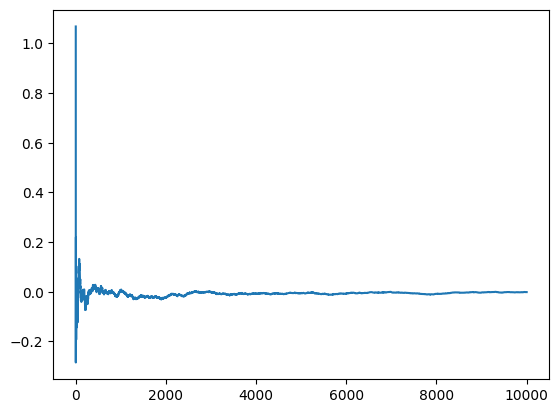
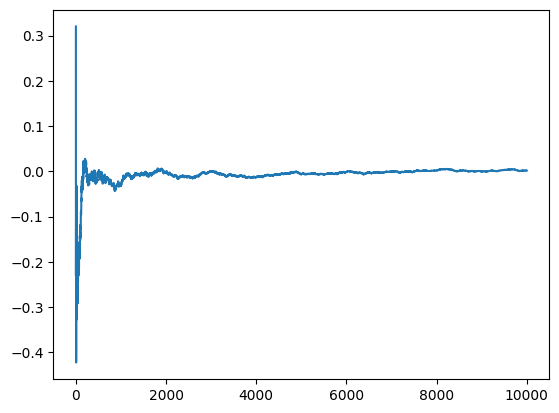
Built site for gh-pages

diff --git a/314/quiz04.html b/314/quiz04.html
@@ -123,28 +123,33 @@ pre > code.sourceCode > span > a:first-child::before { text-decoration: underlin
 
 
 
-<div id="1cb32e88-ebf6-4205-98ef-f8c705f09134" class="cell" data-execution_count="1">
+<div id="39a1053a-6209-4a64-bf55-a1e00844c027" class="cell" data-execution_count="2">
 <div class="code-copy-outer-scaffold"><div class="sourceCode cell-code" id="cb1"><pre class="sourceCode python code-with-copy"><code class="sourceCode python"><span id="cb1-1"><a href="#cb1-1" aria-hidden="true" tabindex="-1"></a><span class="im">import</span> numpy <span class="im">as</span> np</span></code></pre></div><button title="Copy to Clipboard" class="code-copy-button"><i class="bi"></i></button></div>
 </div>
-<div id="cecce080-cc10-4fcf-8f5e-f62522a33b9f" class="cell" data-execution_count="2">
+<p>Not a bad idea to solve this one in pieces/two functions.</p>
+<div id="a9354143-3b5d-44e8-a0bd-68e30e5ee614" class="cell" data-execution_count="4">
 <div class="code-copy-outer-scaffold"><div class="sourceCode cell-code" id="cb2"><pre class="sourceCode python code-with-copy"><code class="sourceCode python"><span id="cb2-1"><a href="#cb2-1" aria-hidden="true" tabindex="-1"></a><span class="kw">def</span> mean(x):</span>
-<span id="cb2-2"><a href="#cb2-2" aria-hidden="true" tabindex="-1"></a>    N <span class="op">=</span> np.size(x) <span class="co"># x.size</span></span>
-<span id="cb2-3"><a href="#cb2-3" aria-hidden="true" tabindex="-1"></a>    s <span class="op">=</span> <span class="fl">0.0</span></span>
-<span id="cb2-4"><a href="#cb2-4" aria-hidden="true" tabindex="-1"></a>    <span class="cf">for</span> i <span class="kw">in</span> <span class="bu">range</span>(N):</span>
-<span id="cb2-5"><a href="#cb2-5" aria-hidden="true" tabindex="-1"></a>        s <span class="op">+=</span> x[i]</span>
+<span id="cb2-2"><a href="#cb2-2" aria-hidden="true" tabindex="-1"></a>    s <span class="op">=</span> <span class="fl">0.0</span></span>
+<span id="cb2-3"><a href="#cb2-3" aria-hidden="true" tabindex="-1"></a>    N <span class="op">=</span> np.size(x)</span>
+<span id="cb2-4"><a href="#cb2-4" aria-hidden="true" tabindex="-1"></a>    <span class="cf">for</span> n <span class="kw">in</span> <span class="bu">range</span>(N):</span>
+<span id="cb2-5"><a href="#cb2-5" aria-hidden="true" tabindex="-1"></a>        s <span class="op">+=</span> x[n]</span>
 <span id="cb2-6"><a href="#cb2-6" aria-hidden="true" tabindex="-1"></a>    <span class="cf">return</span> s <span class="op">/</span> N</span></code></pre></div><button title="Copy to Clipboard" class="code-copy-button"><i class="bi"></i></button></div>
 </div>
-<div id="e440d70e-3eb2-4f3c-ac5b-3603397179b5" class="cell" data-execution_count="5">
-<div class="code-copy-outer-scaffold"><div class="sourceCode cell-code" id="cb3"><pre class="sourceCode python code-with-copy"><code class="sourceCode python"><span id="cb3-1"><a href="#cb3-1" aria-hidden="true" tabindex="-1"></a>rng <span class="op">=</span> np.random.default_rng() <span class="co"># instantiating an RNG class</span></span>
-<span id="cb3-2"><a href="#cb3-2" aria-hidden="true" tabindex="-1"></a>x <span class="op">=</span> rng.normal(size <span class="op">=</span> <span class="dv">10</span>) <span class="co"># use rng instance to generate random numbers =&gt; ndarray</span></span>
-<span id="cb3-3"><a href="#cb3-3" aria-hidden="true" tabindex="-1"></a>x</span></code></pre></div><button title="Copy to Clipboard" class="code-copy-button"><i class="bi"></i></button></div>
-<div class="cell-output cell-output-display" data-execution_count="5">
-<pre><code>array([ 0.53768287,  0.48044289,  0.41968892,  0.53617612,  0.12008546,
-        2.36768986,  0.17752883,  0.68915822,  0.07121943, -0.29874026])</code></pre>
+<div id="5ab1a5e2-461b-4d6d-81b7-17703ab66d6b" class="cell" data-execution_count="5">
+<div class="code-copy-outer-scaffold"><div class="sourceCode cell-code" id="cb3"><pre class="sourceCode python code-with-copy"><code class="sourceCode python"><span id="cb3-1"><a href="#cb3-1" aria-hidden="true" tabindex="-1"></a><span class="kw">def</span> var(x):</span>
+<span id="cb3-2"><a href="#cb3-2" aria-hidden="true" tabindex="-1"></a>    s <span class="op">=</span> <span class="fl">0.0</span></span>
+<span id="cb3-3"><a href="#cb3-3" aria-hidden="true" tabindex="-1"></a>    N <span class="op">=</span> np.size(x)</span>
+<span id="cb3-4"><a href="#cb3-4" aria-hidden="true" tabindex="-1"></a>    m <span class="op">=</span> mean(x)</span>
+<span id="cb3-5"><a href="#cb3-5" aria-hidden="true" tabindex="-1"></a>    invN <span class="op">=</span> <span class="dv">1</span> <span class="op">/</span> N <span class="co"># minimizing division is a good idea, even if ineffective here</span></span>
+<span id="cb3-6"><a href="#cb3-6" aria-hidden="true" tabindex="-1"></a>    <span class="cf">for</span> n <span class="kw">in</span> <span class="bu">range</span>(N):</span>
+<span id="cb3-7"><a href="#cb3-7" aria-hidden="true" tabindex="-1"></a>        d <span class="op">=</span> x[n] <span class="op">-</span> m</span>
+<span id="cb3-8"><a href="#cb3-8" aria-hidden="true" tabindex="-1"></a>        s <span class="op">+=</span> d <span class="op">*</span> d <span class="co"># multiplication is faster than powers</span></span>
+<span id="cb3-9"><a href="#cb3-9" aria-hidden="true" tabindex="-1"></a>    <span class="cf">return</span> s <span class="op">*</span> invN</span></code></pre></div><button title="Copy to Clipboard" class="code-copy-button"><i class="bi"></i></button></div>
 </div>
-</div>
-<div id="e21aa05f-f9cd-405c-a726-1e60fd39d4d2" class="cell" data-execution_count="9">
-<div class="code-copy-outer-scaffold"><div class="sourceCode cell-code" id="cb5"><pre class="sourceCode python code-with-copy"><code class="sourceCode python"><span id="cb5-1"><a href="#cb5-1" aria-hidden="true" tabindex="-1"></a>np.isclose(mean(x), np.mean(x)) <span class="co"># don't == floats/doubles</span></span></code></pre></div><button title="Copy to Clipboard" class="code-copy-button"><i class="bi"></i></button></div>
+<div id="0216d24d-59a0-4a31-9fb6-ab25db939da9" class="cell" data-execution_count="9">
+<div class="code-copy-outer-scaffold"><div class="sourceCode cell-code" id="cb4"><pre class="sourceCode python code-with-copy"><code class="sourceCode python"><span id="cb4-1"><a href="#cb4-1" aria-hidden="true" tabindex="-1"></a>rng <span class="op">=</span> np.random.default_rng()</span>
+<span id="cb4-2"><a href="#cb4-2" aria-hidden="true" tabindex="-1"></a>x <span class="op">=</span> rng.normal(size <span class="op">=</span> <span class="dv">100</span>)</span>
+<span id="cb4-3"><a href="#cb4-3" aria-hidden="true" tabindex="-1"></a>np.isclose(np.var(x), var(x))</span></code></pre></div><button title="Copy to Clipboard" class="code-copy-button"><i class="bi"></i></button></div>
 <div class="cell-output cell-output-display" data-execution_count="9">
 <pre><code>True</code></pre>
 </div>

diff --git a/314/convergence_probability.html b/314/convergence_probability.html
@@ -123,21 +123,21 @@ pre > code.sourceCode > span > a:first-child::before { text-decoration: underlin
 
 
 
-<div id="b30cbbaf-c93d-4591-94ab-0bdd0f87213c" class="cell" data-execution_count="12">
+<div id="b30cbbaf-c93d-4591-94ab-0bdd0f87213c" class="cell" data-execution_count="1">
 <div class="code-copy-outer-scaffold"><div class="sourceCode cell-code" id="cb1"><pre class="sourceCode python code-with-copy"><code class="sourceCode python"><span id="cb1-1"><a href="#cb1-1" aria-hidden="true" tabindex="-1"></a><span class="im">import</span> numpy <span class="im">as</span> np</span>
 <span id="cb1-2"><a href="#cb1-2" aria-hidden="true" tabindex="-1"></a><span class="im">import</span> matplotlib.pyplot <span class="im">as</span> plt</span></code></pre></div><button title="Copy to Clipboard" class="code-copy-button"><i class="bi"></i></button></div>
 </div>
-<div id="144d68f6-2cfd-4cca-9558-bc1390360e1e" class="cell" data-execution_count="17">
+<div id="144d68f6-2cfd-4cca-9558-bc1390360e1e" class="cell" data-execution_count="2">
 <div class="code-copy-outer-scaffold"><div class="sourceCode cell-code" id="cb2"><pre class="sourceCode python code-with-copy"><code class="sourceCode python"><span id="cb2-1"><a href="#cb2-1" aria-hidden="true" tabindex="-1"></a>N <span class="op">=</span> <span class="dv">10000</span></span>
 <span id="cb2-2"><a href="#cb2-2" aria-hidden="true" tabindex="-1"></a>rng <span class="op">=</span> np.random.default_rng()</span>
 <span id="cb2-3"><a href="#cb2-3" aria-hidden="true" tabindex="-1"></a>x <span class="op">=</span> rng.normal(size <span class="op">=</span> N)</span>
 <span id="cb2-4"><a href="#cb2-4" aria-hidden="true" tabindex="-1"></a>xbar <span class="op">=</span> np.mean(x)</span>
 <span id="cb2-5"><a href="#cb2-5" aria-hidden="true" tabindex="-1"></a>np.var(x)</span></code></pre></div><button title="Copy to Clipboard" class="code-copy-button"><i class="bi"></i></button></div>
-<div class="cell-output cell-output-display" data-execution_count="17">
-<pre><code>0.9926945605171044</code></pre>
+<div class="cell-output cell-output-display" data-execution_count="2">
+<pre><code>1.0116761420756855</code></pre>
 </div>
 </div>
-<div id="e2258d68-d13b-4c06-b9e7-d1d1c8db7a5a" class="cell" data-execution_count="18">
+<div id="e2258d68-d13b-4c06-b9e7-d1d1c8db7a5a" class="cell" data-execution_count="3">
 <div class="code-copy-outer-scaffold"><div class="sourceCode cell-code" id="cb4"><pre class="sourceCode python code-with-copy"><code class="sourceCode python"><span id="cb4-1"><a href="#cb4-1" aria-hidden="true" tabindex="-1"></a>ndx <span class="op">=</span> np.arange(N) <span class="op">+</span> <span class="dv">1</span></span>
 <span id="cb4-2"><a href="#cb4-2" aria-hidden="true" tabindex="-1"></a>cm <span class="op">=</span> np.cumsum(x) <span class="op">/</span> ndx</span>
 <span id="cb4-3"><a href="#cb4-3" aria-hidden="true" tabindex="-1"></a>plt.plot(ndx, cm)</span></code></pre></div><button title="Copy to Clipboard" class="code-copy-button"><i class="bi"></i></button></div>
@@ -149,13 +149,30 @@ pre > code.sourceCode > span > a:first-child::before { text-decoration: underlin
 </div>
 </div>
 </div>
-<div id="34e458f2-482a-4763-a115-eec8abc92a71" class="cell" data-execution_count="19">
+<div id="34e458f2-482a-4763-a115-eec8abc92a71" class="cell" data-execution_count="4">
 <div class="code-copy-outer-scaffold"><div class="sourceCode cell-code" id="cb5"><pre class="sourceCode python code-with-copy"><code class="sourceCode python"><span id="cb5-1"><a href="#cb5-1" aria-hidden="true" tabindex="-1"></a>cv <span class="op">=</span> np.cumsum((x <span class="op">-</span> xbar) <span class="op">**</span> <span class="dv">2</span>) <span class="op">/</span> ndx</span>
 <span id="cb5-2"><a href="#cb5-2" aria-hidden="true" tabindex="-1"></a>plt.plot(ndx, cv)</span></code></pre></div><button title="Copy to Clipboard" class="code-copy-button"><i class="bi"></i></button></div>
 <div class="cell-output cell-output-display">
 <div>
 <figure class="figure">
 <p><img src="convergence_probability_files/figure-html/cell-5-output-1.png" class="img-fluid figure-img"></p>
+</figure>
+</div>
+</div>
+</div>
+<div id="821d9d63-b621-47b2-9250-539a27e20fff" class="cell" data-execution_count="7">
+<div class="code-copy-outer-scaffold"><div class="sourceCode cell-code" id="cb6"><pre class="sourceCode python code-with-copy"><code class="sourceCode python"><span id="cb6-1"><a href="#cb6-1" aria-hidden="true" tabindex="-1"></a>np.mean(x <span class="op">&gt;=</span> <span class="dv">0</span>) <span class="co"># P[X &gt;= 0] = P[X in R^+]</span></span></code></pre></div><button title="Copy to Clipboard" class="code-copy-button"><i class="bi"></i></button></div>
+<div class="cell-output cell-output-display" data-execution_count="7">
+<pre><code>0.4934</code></pre>
+</div>
+</div>
+<div id="7faa1f6f-f713-4347-b1cf-711ff926f165" class="cell" data-execution_count="8">
+<div class="code-copy-outer-scaffold"><div class="sourceCode cell-code" id="cb8"><pre class="sourceCode python code-with-copy"><code class="sourceCode python"><span id="cb8-1"><a href="#cb8-1" aria-hidden="true" tabindex="-1"></a>cp <span class="op">=</span> np.cumsum(x <span class="op">&gt;=</span> <span class="dv">0</span>) <span class="op">/</span> ndx</span>
+<span id="cb8-2"><a href="#cb8-2" aria-hidden="true" tabindex="-1"></a>plt.plot(ndx, cp)</span></code></pre></div><button title="Copy to Clipboard" class="code-copy-button"><i class="bi"></i></button></div>
+<div class="cell-output cell-output-display">
+<div>
+<figure class="figure">
+<p><img src="convergence_probability_files/figure-html/cell-7-output-1.png" class="img-fluid figure-img"></p>
 </figure>
 </div>
 </div>
